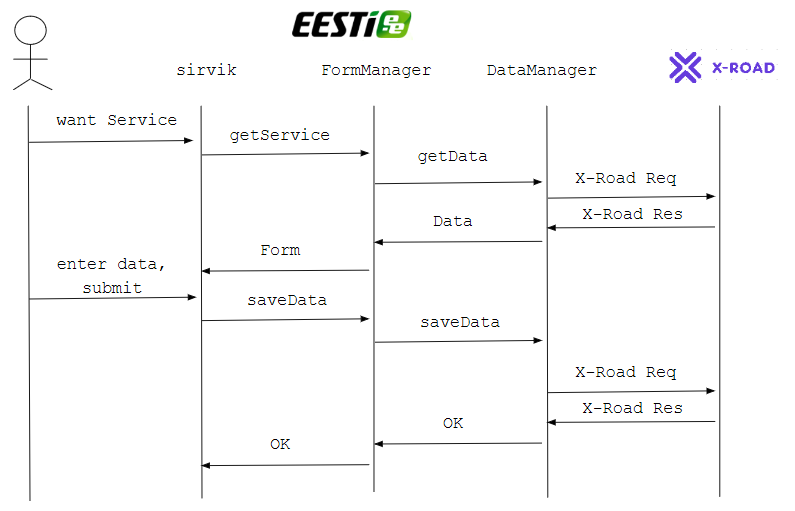
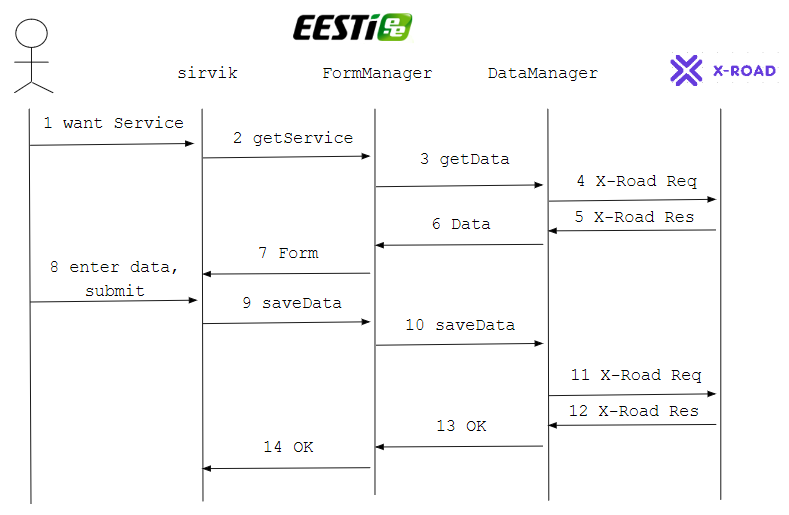
+

diff --git a/TehnilineVoog.md b/TehnilineVoog.md
@@ -23,21 +23,21 @@ Osapooled ja komponendid:
 
 Voog:
 
- samm | selgitus | tehnoloogia
-------|----------|-------------- 
-`want Service` | Kasutaja on riigiportaali artikli lehel.<br> Kasutaja on autenditud.<br> Kasutaja vajutab teenuse lingile või nupule. | HTML5, CSS3, Javascript, Bootstrap
-`getService` | Sirvikust läheb päring backend-i.<br> Päringuga haaratakse kaasa sirvikus salvestatud seansiküpsise väärtus (JWT). | Javascript Fetch API (1) 
-`getData` | FormManager kontrollib seansiküpsise ehtsust ja kehtivust;<br> saab seansiküpsisest kätte Kasutaja isikukoodi.<br> Moodustab teenuse esitamiseks vajalike andmete päringu ja saadab selle DataManagerile. | JWS (JSON Web Signature), Java, JSON või XML (päringus DataManager-le) 
-`X-Road Req` | DataManager moodustab X-tee päringu(d) ja saadab selle (need) andmekogu(de)sse. | X-Road, SOAP, WSDL
-`X-Road Res` | DataManager võtab vastu X-tee vastuse(d). | X-Road, SOAP, WSDL
-`Data` | DataManager saadab andmekogu(de)st saadud andmed edasi FormManagerile. | JSON või XML
-`Form` | FormManager moodustab vormi ja täidab selle andmekogu(de)st saadud andmetega.<br> Edastab vormi sirvikusse (päringu `getService` vastusena).<br> Vorm koosneb HTML-st ja Javascript-st; vajadusel võib vormiga koos saata ka teenusespetsiifilise laadilehe.<br> HTML ja Javascript võib osaliselt või tervikuna olla juba artiklilehe koosseisus (ära peidetult). | XForms, Orbeon, Java
-`enter data, submit` | Kasutaja interakteerub vormiga.<br> Kasutaja vajutab salvesta vms. | HTML5, CSS3, Javascript, Bootstrap
-`saveData` | Kasutaja `submit`-i toimel tehakse sirvikust teenuse tulemandmete salvestamise päring backend-i. | Javascript Fetch API
-`saveData` | FormManager kontrollib sirvikust tulevaid andmeid ja edastab need DataManagerile. | Java; JSON või XML
-`X-Road Req` | FormManager koostab andmete salvestamise X-tee päringu(d) ja saadab need asjakohas(t)esse andmekogu(de)sse. | X-Road, SOAP, WSDL
-`X-Road Res` | FormManager võtab vastu X-tee päringu(te) vastuse(d). | X-Road, SOAP, WSDL
-`OK` | Teenuse tulemandmete salvestamise kinnitus liigub tagasi sirvikusse. | Javascript Fetch API
+ nr | samm | selgitus | tehnoloogia
+:--:|------|----------|-------------- 
+1 | `want Service` | Kasutaja on riigiportaali artikli lehel.<br> Kasutaja on autenditud.<br> Kasutaja vajutab teenuse lingile või nupule. | HTML5, CSS3, Javascript, Bootstrap
+2 | `getService` | Sirvikust läheb päring backend-i.<br> Päringuga haaratakse kaasa sirvikus salvestatud seansiküpsise väärtus (JWT). | Javascript Fetch API (1) 
+3 | `getData` | FormManager kontrollib seansiküpsise ehtsust ja kehtivust;<br> saab seansiküpsisest kätte Kasutaja isikukoodi.<br> Moodustab teenuse esitamiseks vajalike andmete päringu ja saadab selle DataManagerile. | JWS (JSON Web Signature), Java, JSON või XML (päringus DataManager-le) 
+4 | `X-Road Req` | DataManager moodustab X-tee päringu(d) ja saadab selle (need) andmekogu(de)sse. | X-Road, SOAP, WSDL
+5 | `X-Road Res` | DataManager võtab vastu X-tee vastuse(d). | X-Road, SOAP, WSDL
+6 | `Data` | DataManager saadab andmekogu(de)st saadud andmed edasi FormManagerile. | JSON või XML
+7 | `Form` | FormManager moodustab vormi ja täidab selle andmekogu(de)st saadud andmetega.<br> Edastab vormi sirvikusse (päringu `getService` vastusena).<br> Vorm koosneb HTML-st ja Javascript-st; vajadusel võib vormiga koos saata ka teenusespetsiifilise laadilehe.<br> HTML ja Javascript võib osaliselt või tervikuna olla juba artiklilehe koosseisus (ära peidetult). | XForms, Orbeon, Java
+8 | `enter data, submit` | Kasutaja interakteerub vormiga.<br> Kasutaja vajutab salvesta vms. | HTML5, CSS3, Javascript, Bootstrap
+9 | `saveData` | Kasutaja `submit`-i toimel tehakse sirvikust teenuse tulemandmete salvestamise päring backend-i. | Javascript Fetch API
+10 | `saveData` | FormManager kontrollib sirvikust tulevaid andmeid ja edastab need DataManagerile. | Java; JSON või XML
+11 | `X-Road Req` | FormManager koostab andmete salvestamise X-tee päringu(d) ja saadab need asjakohas(t)esse andmekogu(de)sse. | X-Road, SOAP, WSDL
+12 | `X-Road Res` | FormManager võtab vastu X-tee päringu(te) vastuse(d). | X-Road, SOAP, WSDL
+13, 14 | `OK` | Teenuse tulemandmete salvestamise kinnitus liigub tagasi sirvikusse. | Javascript Fetch API
 
 
 (1) Vanema nimetusega AJAX-päring. Fetch API on HTML5 AJAX-päringute tegemise uus standardne vahend.
